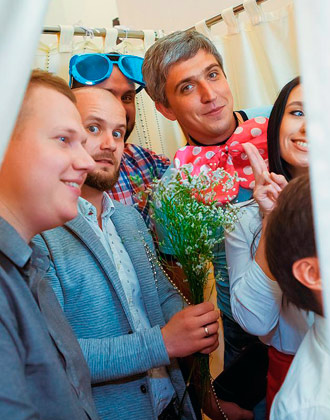
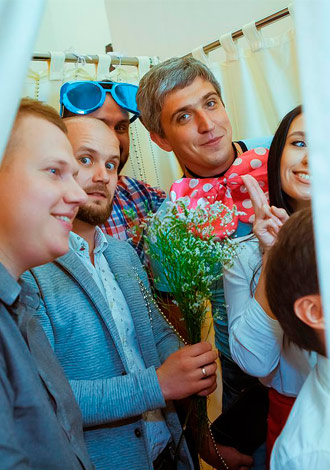
fotobudka slider Ok

diff --git a/index.html b/index.html
@@ -147,7 +147,36 @@
                     </ul>
                 </div>
                 <div class="col-md-6 con2">
-                    <img src="img/fotozerkalo.jpg" alt="Фотобудка в Липецке" class="fotobimg">
+                   <div class="col-md-4 con2"> <img src="img/fotob-fotom/top-fotob.jpg" alt="Фотобудка в Липецке" class="fotobud">
+                   <img src="img/fotob-fotom/bottom-fotob.jpg" alt="Фотобудка в Липецке" class="fotobud">
+                   </div>
+
+                    <div class="col-md-8 con2">
+                    <!-- Swiper Fotobudka -->
+            <div class="swiper-fotob">
+                <div class="swiper-wrapper">
+                    <div class="swiper-slide"><img src="img/fotob-fotom/fotob1.jpg" alt="слайдер 0" class="fotobud"></div>
+                    <div class="swiper-slide"><img src="img/fotob-fotom/fotob2.jpg" alt="слайдер 1" class="fotobud"></div>
+					<div class="swiper-slide"><img src="img/fotob-fotom/fotob3.jpg" alt="слайдер 2" class="fotobud"></div>
+
+                </div>
+                <!-- Add Pagination -->
+                <div class="swiper-pagination"></div>
+
+            </div>
+
+            <!-- Initialize Swiper -->
+            <script>
+                var swiper = new Swiper('.swiper-fotob', {
+                    autoplay: 1800,
+                    speed: 1000,
+                    effect: 'fade',
+                    fadeEffect: {crossFade: true},
+                    grabCursor: true,
+                    slidesOffsetAfter: 0
+                });
+            </script>
+                    </div>
                 </div>
                 <div class="col-md-3 ph-con2">
                     <ul class="starul">

diff --git a/css/main.css b/css/main.css
@@ -961,3 +961,22 @@ font-size: 22pt;
 .klienti img{
         margin: 20px 0.5%;
 }
+
+.swiper-fotob {
+    width: 100%;
+    max-width: 610px;
+}
+
+.fotobud {
+    width: 100%;
+	margin: 0 auto;
+    border-radius: 0px;
+    display: block;
+    max-width: 700px;
+    margin-top: 6px;
+}
+
+.con2 {
+    padding-left: 3px;
+    padding-right: 3px;
+}
